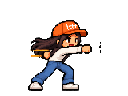
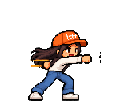
Bake attack offset into sprite frames

diff --git a/main.js b/main.js
@@ -49,18 +49,17 @@ var getAnimationFrame = function(animationIndex, elapsedMs) {
 
 var drawHeroFrame = function(animationIndex, frameIndex, x, y, width, height) {
     let animation = heroAnimations[animationIndex];
-    let drawY = y + (animationIndex === 6 || animationIndex === 7 ? 10 : 0);
     if (animation.frames) {
         let frame = animation.frames[frameIndex];
         if (frame && frame.complete && frame.naturalWidth > 0) {
             if (animation.mirrorX) {
                 context.save();
-                context.translate(x + width, drawY);
+                context.translate(x + frame.naturalWidth, y);
                 context.scale(-1, 1);
-                context.drawImage(frame, 0, 0, width, height);
+                context.drawImage(frame, 0, 0);
                 context.restore();
             } else {
-                context.drawImage(frame, x, drawY, width, height);
+                context.drawImage(frame, x, y);
             }
         }
         return;

diff --git a/assets/characters/README.md b/assets/characters/README.md
@@ -5,12 +5,13 @@ Left-facing character animations reuse the corresponding right-facing frames and
 mirror them horizontally; the game does this for Sonia's animations and legacy
 hurt sheet. Sonia's eight-frame jump sequence uses frame 003 on ascent, frames
 004-005 on descent (005 holds until landing), and frames 006-007 on landing.
-Attack artwork is scaled to 80% inside the original 128x96 canvas, anchored to the
-same ground line. `animations.json` lists frame paths, playback rates, and
-mirroring metadata.
-`animations.json` lists frame paths and playback rates.
+Attack artwork is scaled to 80% and stored on a 128x106 transparent canvas with
+10 pixels of top padding to lower it without a render-time offset.
+`animations.json` lists frame paths, playback rates, and mirroring metadata.
 
-Size: 128x96 RGBA PNG; all images have genuine transparent backgrounds. Draw full frame without cropping. Foot sole baseline y=92 (last opaque pixel y=92 or y=93 depending nearest-neighbor).
+Standard frame size: 128x96 RGBA PNG; attack frames are 128x106. All images have
+genuine transparent backgrounds. Draw full frame without cropping. The standard
+foot sole baseline is y=92 (last opaque pixel y=92 or y=93 depending nearest-neighbor).
 
 Run frames 0-5: anatomical leg A forward full, half, closed, anatomical leg B forward full, half, closed. Arms counter-swing.
 
